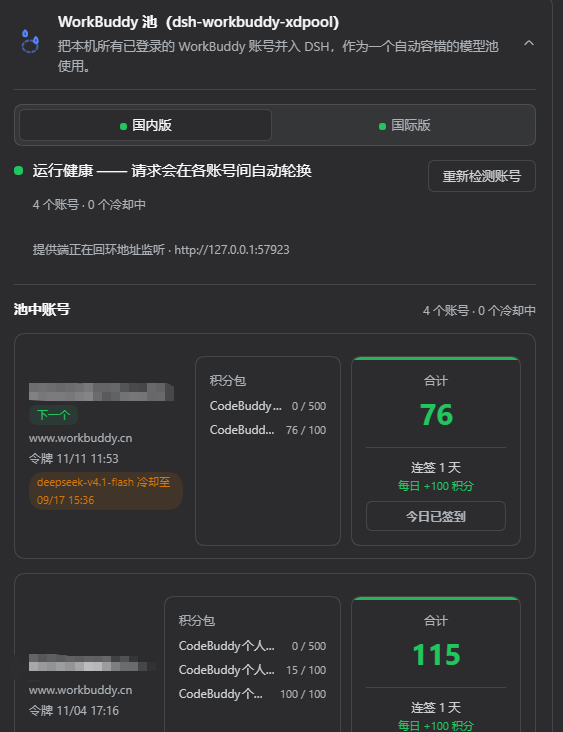
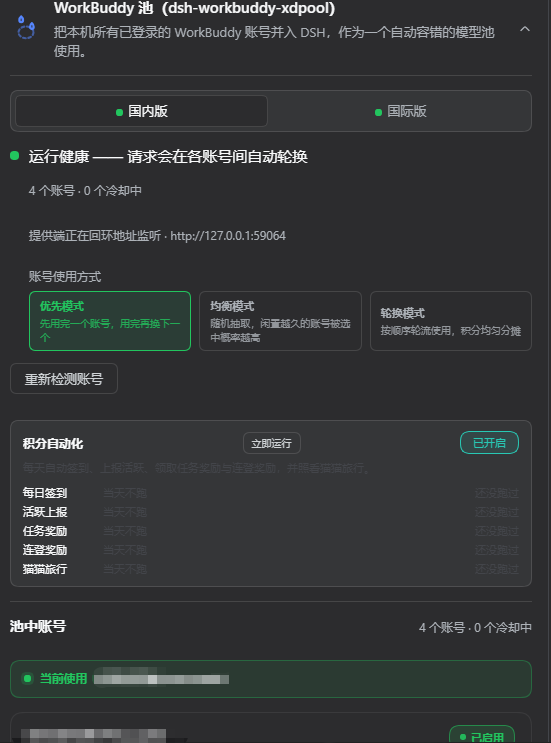
release: 1.3.0 —— 猫猫旅行一天两趟、卡片列出具体领到了什么
上一版把八类任务链接了进去，这一版修的是「接进去了但你看不见」。

**旅行一天只跑一趟，等于坏了一半。** 旅行需要「派出去」和「领回来」两趟，
原来只配了 12:00 一个点，猫出去之后要等第二天才有人管。改成 09:00 + 21:00，
并把每任务的每日去重从按日期改成按时间点——按日期会把晚上那趟吞掉。

**卡片现在列出每一轮实际领到的奖励名**，而不是只显示「日期 · 账号数」。
连登则显示还差几天解锁（`7d in 4d`）。

**修掉「猫猫旅行永远不显示」**：面板里只有四行，旅行的行永远不出现，尽管
它确实在跑。根因是渲染列表本身缺 travel，分支和类型也缺——这类失败模式是
静默的。补了三处，并加了防回归测试锁住「卡片列表 == 调度器列表」。

README 中英双语重写，截图更新为含自动化面板的新版。
测试 134 → 139。

diff --git a/CHANGELOG.md b/CHANGELOG.md
@@ -4,6 +4,53 @@
 
 版本号遵循 [语义化版本](https://semver.org/lang/zh-CN/)。
 
+## 1.3.0 (2026-09-23)
+
+上一版把八类任务链接了进去，这一版修的是**「接进去了但你看不见」**的问题——功能在跑，界面上却没显示，等于白做。
+
+### 猫猫旅行一天只跑一趟，等于坏了一半
+
+旅行的流程是「派出去 → 回来领奖」，需要**两趟**。原来默认时段只配了 12:00 一个点，意味着猫早上出去之后，**要等到第二天**才有人管它。
+
+改成 **09:00 + 21:00 两趟**（早上派出去，晚上回来领）。同时把每个任务的「今天跑过了」判断从**按日期**改成**按时间点**——按日期判断会把晚上那趟直接吞掉，这个守卫跟多时点本身是冲突的。单时点任务（签到、上报、任务奖励、连登）行为不变，同一小时内重复检查仍然不会重复跑。
+
+> 参考项目的默认值就是 `[9, 21]`，注释里写的理由是「一趟派出 + 一趟领奖闭环」。
+
+### 卡片现在告诉你「具体领到了什么」
+
+原来每个任务只显示「日期 · 账号数」，回答不了「我最在意的那个任务领到了没」。
+
+现在会**列出这一轮实际领到的奖励名**：
+
+- 任务奖励 → 列出台任务标题（如「体验设计创意模式」「召唤 3 次专家团」）
+- 每日签到 → `签到 +100`
+- 猫猫旅行 → `猫猫旅行 +10`
+
+连登奖励还没到解锁天数时，会显示**还差几天**（如 `7d in 4d`）——所有档位都是未解锁属于正常状态，但只写「未解锁」会让人以为坏了。
+
+### 修掉「猫猫旅行永远不显示」
+
+有个真 bug：积分自动化面板里只显示签到 / 上报 / 任务 / 连登四行，**猫猫旅行那行永远不出现**，尽管它确实在跑。
+
+根因是那行任务的判断逻辑里，**列表本身就是缺的**——界面渲染一行一个任务，而列表里没有 travel，分支里也没有，类型定义里同样没有。这类「加了功能忘了加列表」的失败模式是**静默的**：任务照跑，用户看不见，也不会报错。
+
+除了补齐三处，还加了个**防回归测试**：卡片的任务列表必须和调度器的任务列表逐项相等、顺序一致。这个不变量之前没人守。
+
+### 其它
+
+- 行内文案「未排程 / 尚未执行」改成「当天不跑 / 还没跑过」，原来的说法不好懂。
+- 补上中英两份缺失的「猫猫旅行」标签（之前那行显示的是原始 key）。
+- README 重写（中英双语）：按「多账号池」和「积分自动化」两块组织，把 13 个任务名列出来、实测数据写进去，并把几个踩坑结论翻译成大白话。
+- 截图更新：卡片全貌换成含自动化面板的新版，另加一张自动化面板特写。
+- 测试从 134 增至 139。
+
+### 已知限制（未变）
+
+- `Expert_Philanthropy`（公益专家）需要真实捐款，不做。
+- `black_cat`（夜猫子）只在 23:00–08:00 计分且无积分奖励，不做。
+- `Model_chat_GLM5.2` 与 `wb_wechat_oa_subscribe_task` 留待下个版本。
+- `Expert_team_use_3` 偶发卡在 2/3（怀疑单账号当日额度，跨天恢复，未验证；新账号不受影响）。
+
 ## 1.2.0 (2026-09-23)
 
 把成长中心剩下的**八类客户端任务**也接进自动化。这些任务在任务中心里写的是「升级桌面客户端后点击某个入口」，听起来只有人坐在真实客户端前才能完成；实际上计分器看的是**行为事件流**，只要事件形状对、指纹对，任务就会涨进度。这一轮把每条链都在真实账号上跑通并回读确认了计分。
